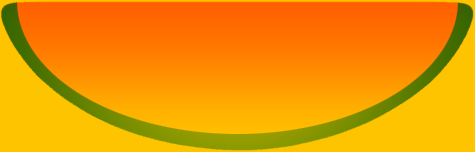
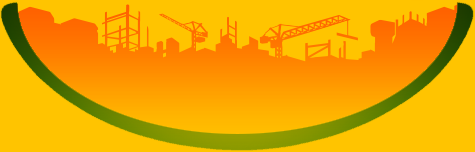
updated UC bg image and shifted main text

diff --git a/styles/style.css b/styles/style.css
@@ -28,7 +28,8 @@ html, body {
 
 h3 {
 	font-family: 'Dosis', Arial, sans-serif;
-	font-size: 150%;
+	font-size: 140%;
+	padding-top: 2.2em;
 }
 
 /*------------ Footer ----------*/
